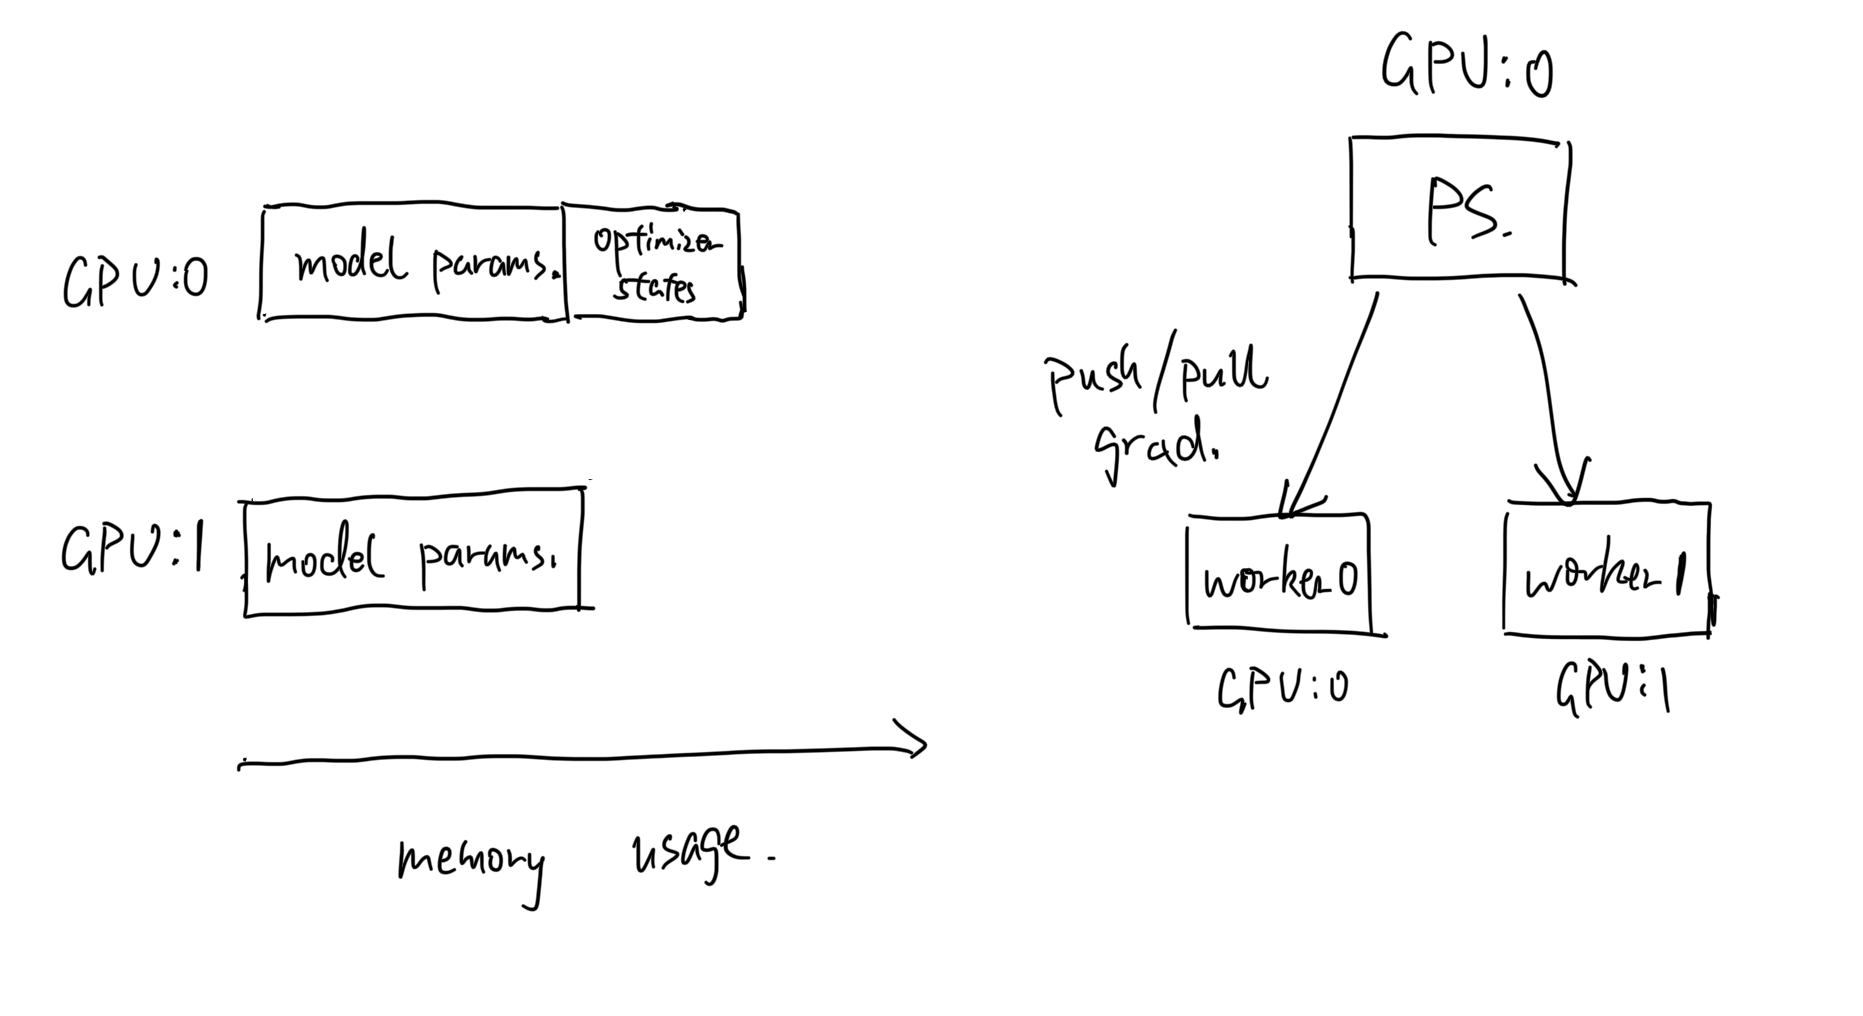
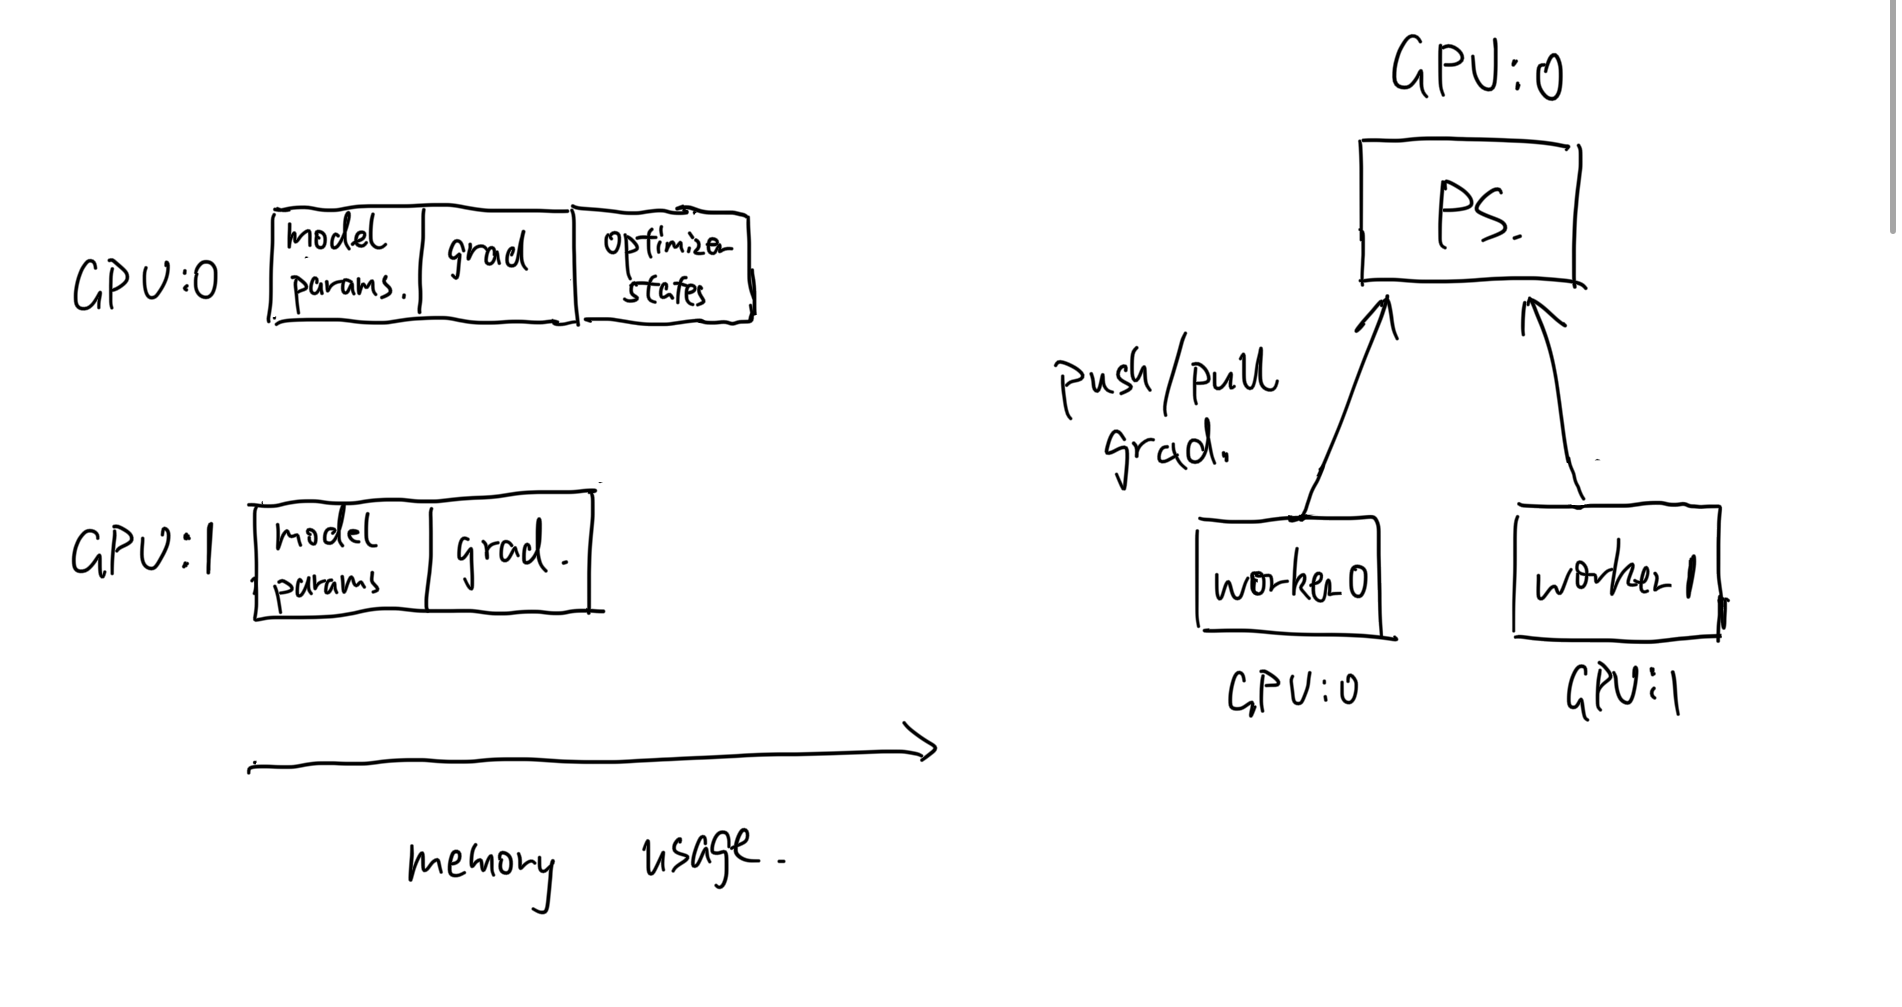
update dp graph

diff --git a/_posts/2024-03-20-data_parallelism_1.md b/_posts/2024-03-20-data_parallelism_1.md
@@ -15,13 +15,13 @@ Here I am trying to illustrate all DP techniques chronically with reasoning for 
 1. Data Parallel (DP) is the foundational and most intuitive form of parallelism in model training. It replicates the model across multiple workers, with each worker processing a subset of the data batch.
 
    * Parameter Server(PS) Architecture: DP achieves multiple workers computing and synchronizing gradients by parameter server. In practice, if you training model with DP on two gpus but they occupy uneven amount of memories. The reason is that one of two GPUs (typically the first GPU) acts as a parameter server stores and updates optimizer states. See the left graph below.
-   * During gradient communication, PS is responsible for `push` and `pull` gradients at the same time for all workers as shown on the right graph. Workers contribute to the process passively.
+   * During gradient communication, each worker (on one thread) is responsible for `push` and `pull` gradients at the same time to/from PS as shown on the right graph. Workers(single process multiple threads) contribute to the process actively.
 
 ![DP](../../images/blogs/dp.png)
 However, as the number of workers grow, the instance communication volume upon push and pull gradients incur a sudden **communication overhead** which becomes a bottleneck for training speed.
 
 1. Distributed Data Parallel (DDP) enhances DP by launching multiple processes, where each process handles a mini-batch of data but maintain optimizer states independently. This approach not only speeds up training but also reduces peak communication overhead through efficient all-reduce communication operation.
-   * No PS. In other words, all processes on all GPUs participate gradients communication actively.
+   * No PS. In other words, all workers (multiple processes) on all GPUs participate gradients communication actively.
    * During all-reduce communication, each GPU requires `send` and `rev` operation in a streaming manner, and this is enabled by multi-process. 
 
 ![DDP](../../images/blogs/ddp.png)
@@ -38,6 +38,9 @@ Despite the communication improvement from DP to DDP, model and optimizer states
    3. OS + G + **Model Weights**: So far we have optimized memory usage of tensors related to backward, how about tensors used for forward pass, the model parameter? In DP forward pass, each worker do forward computation independently with full model parameters, and it sounds tricky that how it can be optimized. Actually, the idea behind model weights optimization is "dispose it after usage". Suppose we have three model layers and two GPUs. $W_{xy}$ denotes xth layer's yth partition. For example, $W_{10}$ means the second layer weight on the first GPU. Suppose we forward pass the second layer on first GPU, we need to all-gather $W_{10}$ on local gpu and $W_{11}$ on the second GPU to materialize the second layer $W_{1}$. Afterwards, it discards $W_{1}$ and repeat the layer materialization step described. Therefore, the peak memory usage on each GPU (for model parameter only) is only the one layer weight in this example. ![zero3](../../images/blogs/deepspeed_zero3.png)
 
 In practice, deepspeed zero3 could be significantly slower than DDP as the model is very large. The root cause is that the granularity of model weights sharding is still not small enough to fully utilize compute-communication overlapping.
+
+
+Here is a snippet from FSDP paper:
 > The FSDP algorithm is motivated by the
 ZeroRedundancyOptimizer [27, 28] technique from DeepSpeed but
 with a revised design and implementation that is aligned with the
@@ -48,12 +51,11 @@ recovered on-demand before computations, and then they are immediately discarded
 only needs to materialize parameters from one unit at a time, which
 significantly reduces peak memory consumption
 
-On the one hand, it's more integrated with PyTorch ecosystem. On the other hand, FSDP unit is smaller than its equivalent "partition unit" in Zero3 which makes model weight fetching more streamlined and efficient w.r.t computation.
+
 
 
 4. FSDP (Fully Sharded Data Parallel) builds on the principle of Zero's third stage but with further optimizations that enhance performance, making it suitable for training large language models (LLMs) more efficiently. It proposes FSDP unit which is the smallest unit in FSDP that is turned into `FlatParameter` before sharding and materialized upon computation.
-
-
+On the one hand, it's more integrated with PyTorch ecosystem. On the other hand, FSDP unit is smaller than its equivalent "partition unit" in Zero3 which makes model weight fetching more streamlined and efficient w.r.t computation.
 
 
 
@@ -62,12 +64,10 @@ On the one hand, it's more integrated with PyTorch ecosystem. On the other hand,
 
 #### Q1: How does FSDP compare to Tensor Parallelism? 
 There could be some common misunderstanding that FSDP is similar to Tensor Parallelism because they both partition model parameters and distribute across GPUs. However, they differ a lot if you really take a closer look at them.
-* **Fundamental difference**: FSDP is essentially data parallelism, and the model parameter sharding across GPUs is just a extra "feature" evolved to reduce model redundency. But TP by nature slices model weights and distribute across GPUs.
+* **Fundamental difference**: FSDP is essentially data parallelism, and the model parameter sharding across GPUs is just a extra "feature" evolved to reduce model redundency. But TP by nature slices model weights and distributes across GPUs.
 * **Input weights and "splitting" methods difference**: Sharding is the process of flattening and partitioning, and it's model weight agnostic. In other words, it can shard any number of weights together into one FlatParameter and then partition based on the number of GPUs. However, TP needs to slice model weights along column dimension or row dimension depending on the matrix weight operation to make sure each GPU can compute logits more independently to reduce communication. In the MLP example above, we need to slice `w1` along row dimension and `w2` column dimension.
 * **GPU persistence difference**: During FSDP training, on each GPU, sharded weights are prefetched upon usage and disposed after usage. Therefore, FSDP doesn't persist full model weights on each GPU. However, for TP, model weights are partitioned, and they persist across GPUs during training. (Another view is that FSDP persists a shard of model parameter on each GPU.)
 
 
 #### Q2: How does FSDP compare to model parallelism?
 Similar to Q1, they differ from these three perspectives. The second point worth mentioning, MP partitions model weights inter-layer, and TP partitions model weights intra-layer.
-
-

diff --git a/_pages/about.md b/_pages/about.md
@@ -16,12 +16,12 @@ Regarding research, I am also a part-time NLP researcher at UW NLP labs. My rese
 * Instruction Tuning ([technical report](https://arxiv.org/abs/2411.16775))
 * Parameter Efficient Fine Tuning in Efficient AI ([technical report](https://arxiv.org/abs/2411.16775))
 * Reinforcement Learning with Human Feedback. ([RAINIER](https://arxiv.org/abs/2210.03078))
-* Bring NLP algorithm to Biological Language Processing, particularly protein design. ([views on Protein Design](), still exploring projects.)
+* Bring NLP algorithm to Biological Language Processing, particularly protein design. ([views on Protein Design](), still exploring potential roles/projects.)
 
 
 ### System
-* High Performance Training in a Distributed Environment. ([parallelism techniques](https://hepengfei.ml/posts/2024-03-20-training_with_parallelism_1/), [data parallelism](https://hepengfei.ml/posts/2024-03-20-data_parallelism/), [pipeline Parallelism](), [GPU Communication]())
-* [Building](https://hepengfei.ml/posts/2021-10-blog-post-4/), Testing and Maintaining Home Cluster for SOTA Hardware Performance.
+* High Performance Training in a Distributed Environment. ([parallelism techniques](https://hepengfei.ml/posts/2024-03-20-training_with_parallelism_1/), [data parallelism](https://hepengfei.ml/posts/2024-03-20-data_parallelism/), [pipeline parallelism](), [GPU communication]())
+* [Building](https://hepengfei.ml/posts/2021-10-blog-post-4/), Testing,  Maintaining and Serving Home Cluster with SOTA Hardware Performance.
 
 ### Application
 * Business Application of AI Agent. (Founded [AdaBit AI](https://adabit.ai), actively developing.)

diff --git a/README.md b/README.md
@@ -7,7 +7,7 @@ I think I've got things running smoothly and fixed some major bugs, but feel fre
 # Instructions
 
 1. Register a GitHub account if you don't have one and confirm your e-mail (required!)
-1. Fork [this repository](https://github.com/academicpages/academicpages.github.io) by clicking the "fork" button in the top right. 
+1. Fork [this repository](https://github.com/academicpages/academicpages.github.io) by clicking the "fork" button in the top right.
 1. Go to the repository's settings (rightmost item in the tabs that start with "Code", should be below "Unwatch"). Rename the repository "[your GitHub username].github.io", which will also be your website's URL.
 1. Set site-wide configuration and create content & metadata (see below -- also see [this set of diffs](http://archive.is/3TPas) showing what files were changed to set up [an example site](https://getorg-testacct.github.io) for a user with the username "getorg-testacct")
 1. Upload any files (like PDFs, .zip files, etc.) to the files/ directory. They will appear at https://[your GitHub username].github.io/files/example.pdf.  
